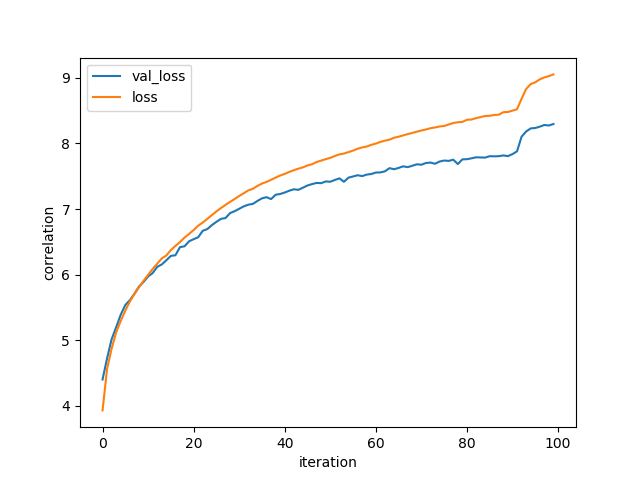
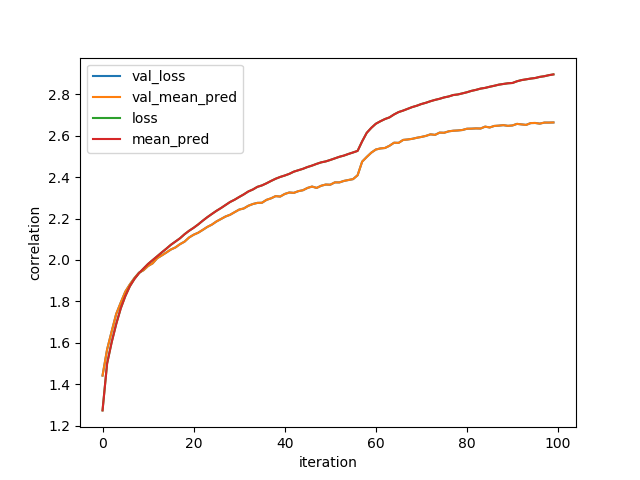
normalization of inputs

diff --git a/tf/dcca_noisymnist.py b/tf/dcca_noisymnist.py
@@ -18,6 +18,7 @@ from keras.models import Model
 from tf.cca_layer import CCA
 from tf.model import ViewModelFFN
 from utils import load_data, svm_classify, visualize
+from sklearn.preprocessing import StandardScaler
 
 
 # seed = 2019
@@ -71,14 +72,24 @@ if __name__ == '__main__':
         load_data('noisymnist_view2.gz', 'https://www2.cs.uic.edu/~vnoroozi/noisy-mnist/noisymnist_view2.gz'), batch_sz)
 
     # view 1 data
+    scl1 = StandardScaler()
     v1_train_x, v1_train_y = data1[0]
+    scl1.fit(v1_train_x)
+    scl1.transform(v1_train_x)
     v1_valid_x, v1_valid_y = data1[1]
+    scl1.transform(v1_valid_x)
     v1_test_x, v1_test_y = data1[2]
+    scl1.transform(v1_test_x)
 
     # view 2 data
+    scl2 = StandardScaler()
     v2_train_x, v2_train_y = data2[0]
+    scl2.fit(v2_train_x)
+    scl2.transform(v2_train_x)
     v2_valid_x, v2_valid_y = data2[1]
+    scl2.transform(v2_valid_x)
     v2_test_x, v2_test_y = data2[2]
+    scl2.transform(v2_test_x)
 
     # models
     view1 = ViewModelFFN(v1_input_dim, latent_dim=latent_dim, hlyrs=(1024, 1024, 1024), name='view1')
